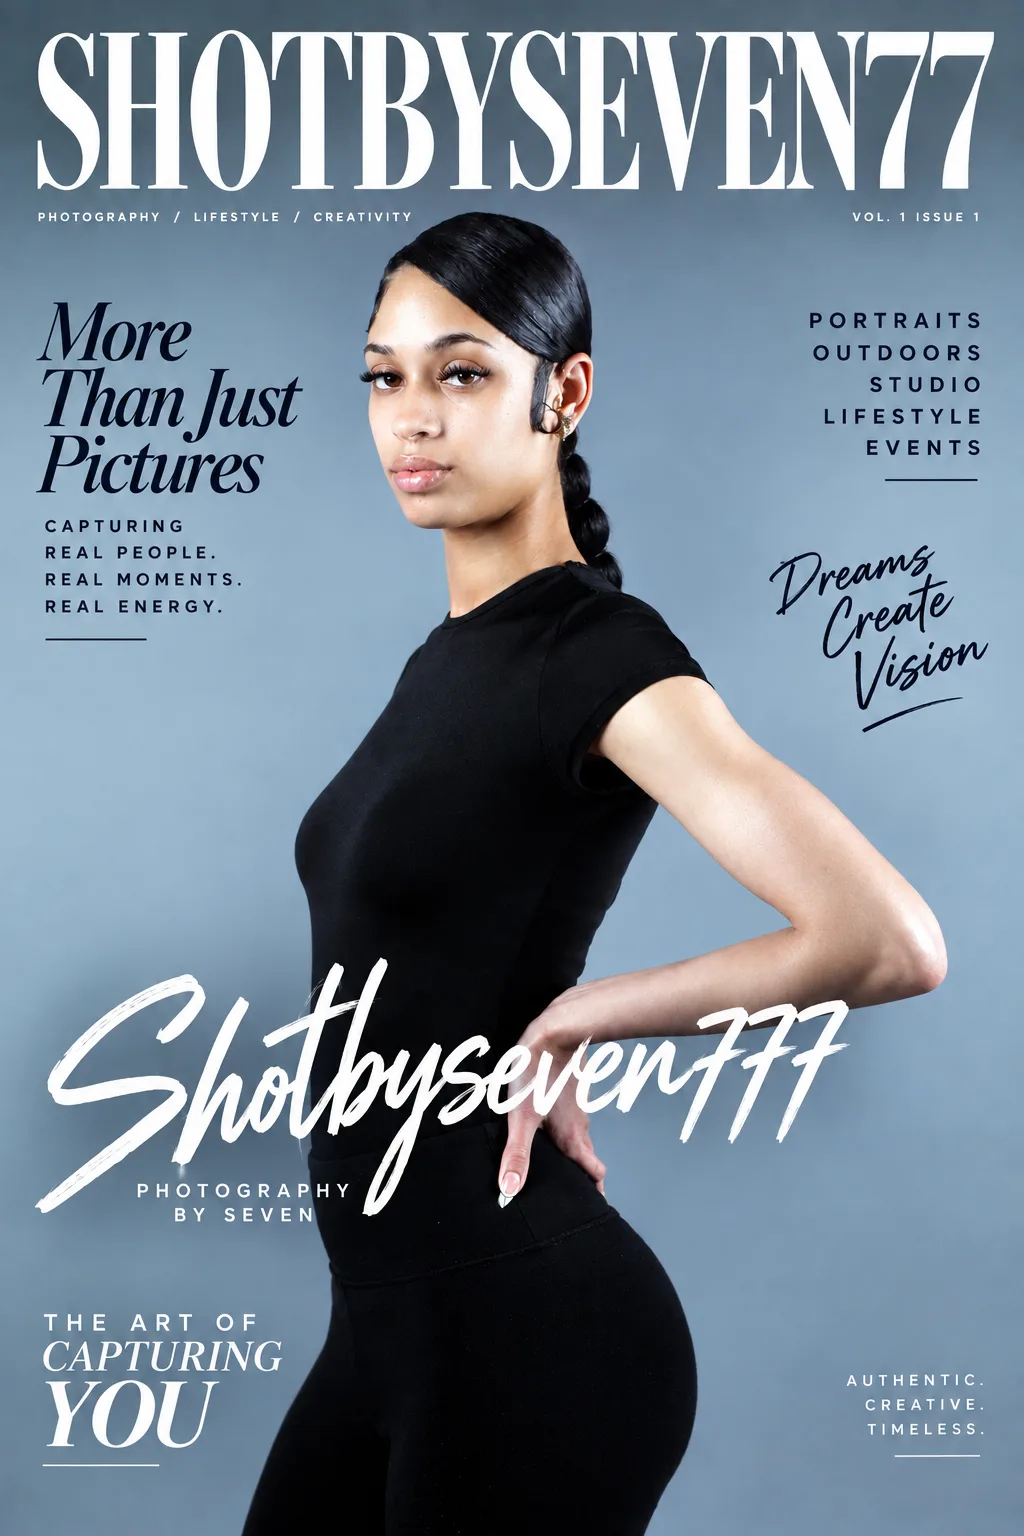
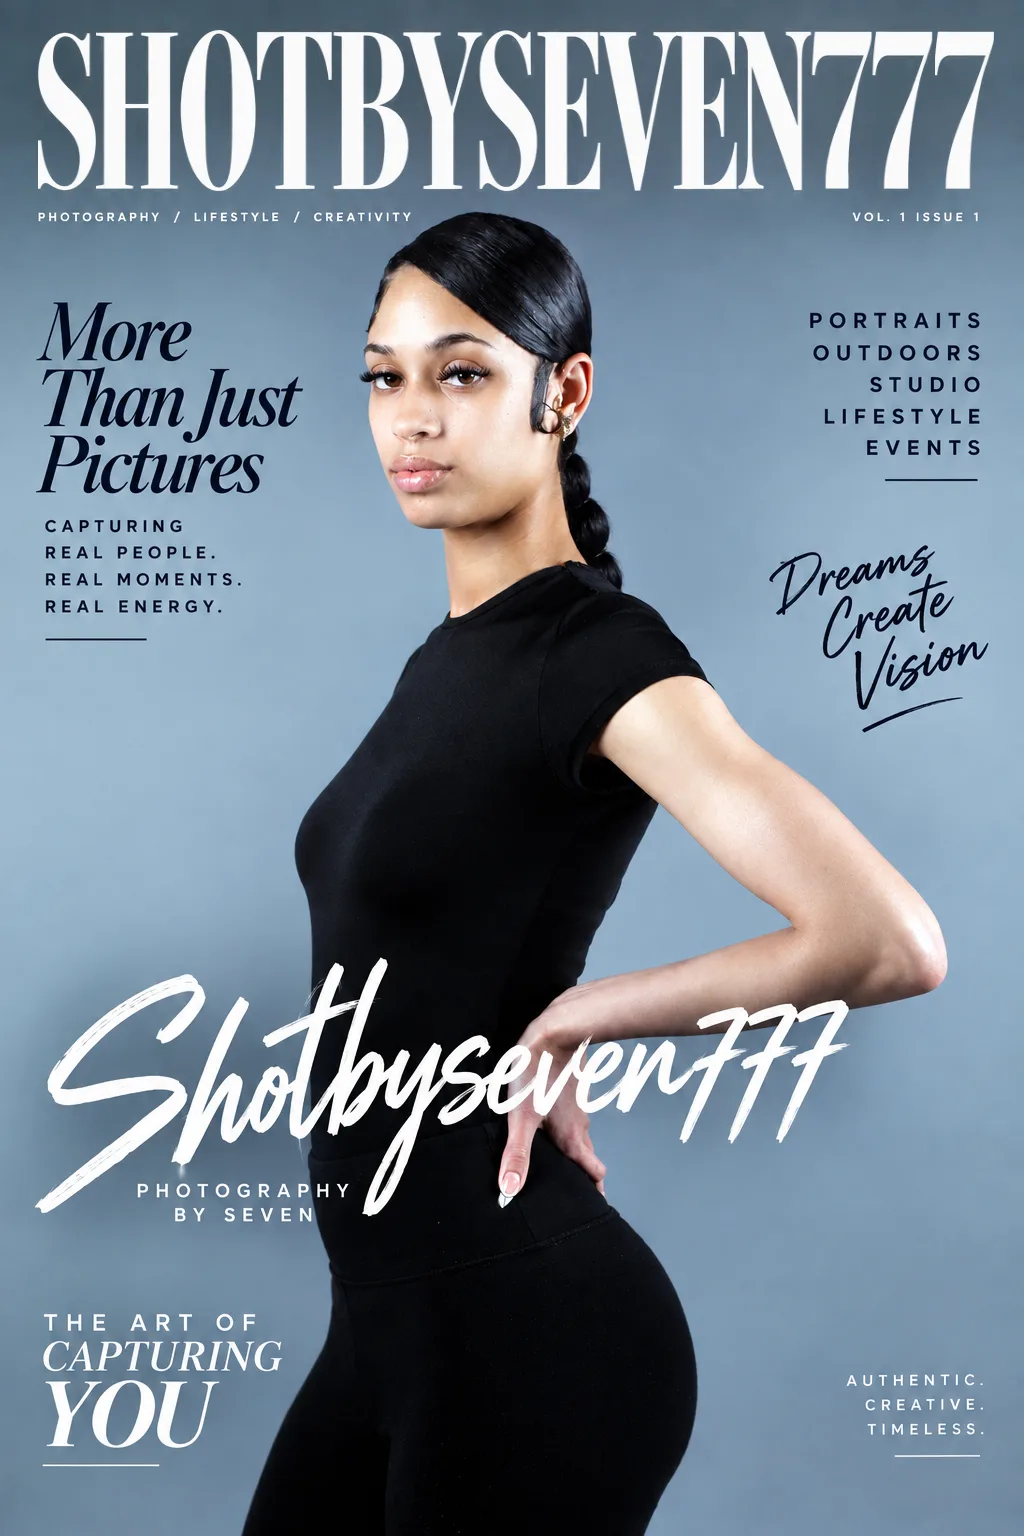
/links: fix cover masthead to SHOTBYSEVEN777
The cover's masthead read SHOTBYSEVEN77. Added the third 7 by reusing
the existing glyph (lettering separated from a reconstructed background,
so no visible seams) and fit the title back to its original width.

Claude-Session: https://claude.ai/code/session_01BhqaekyUvWJuCTy8KHtfQC

Changed region(s): [[0.0625, 0.0, 0.9688, 0.125]]

diff --git a/src/components/Links.jsx b/src/components/Links.jsx
@@ -46,7 +46,7 @@ export default function Links() {
         <h1 className="sr-only">Shot by Seven</h1>
         <img
           src={COVER}
-          alt="Shot by Seven magazine-style cover: More Than Just Pictures. Portraits, outdoors, studio, lifestyle, events."
+          alt="Shotbyseven777 magazine-style cover: More Than Just Pictures. Portraits, outdoors, studio, lifestyle, events."
           width={1024}
           height={1536}
           className="w-full h-auto rounded-2xl shadow-2xl border border-cream/20 mb-6"
